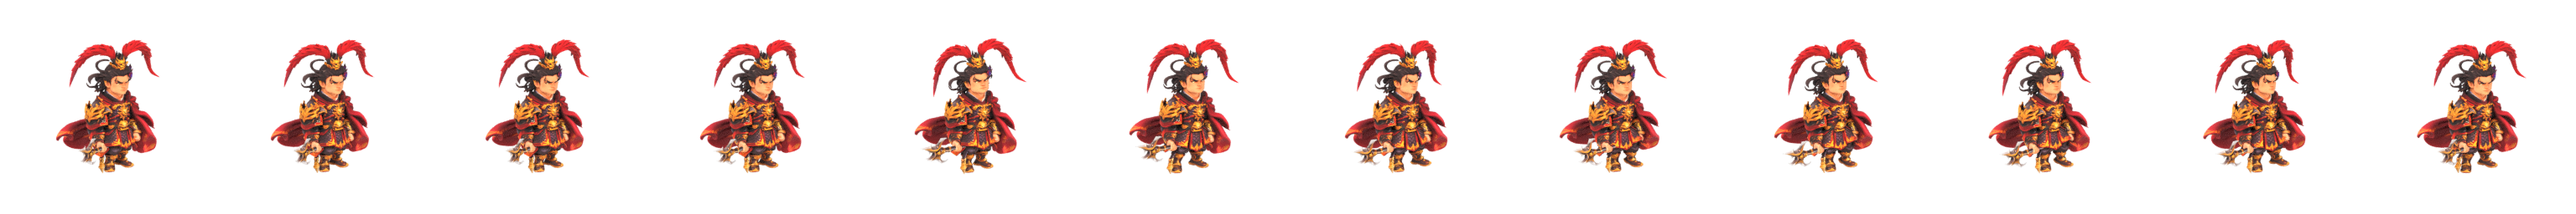
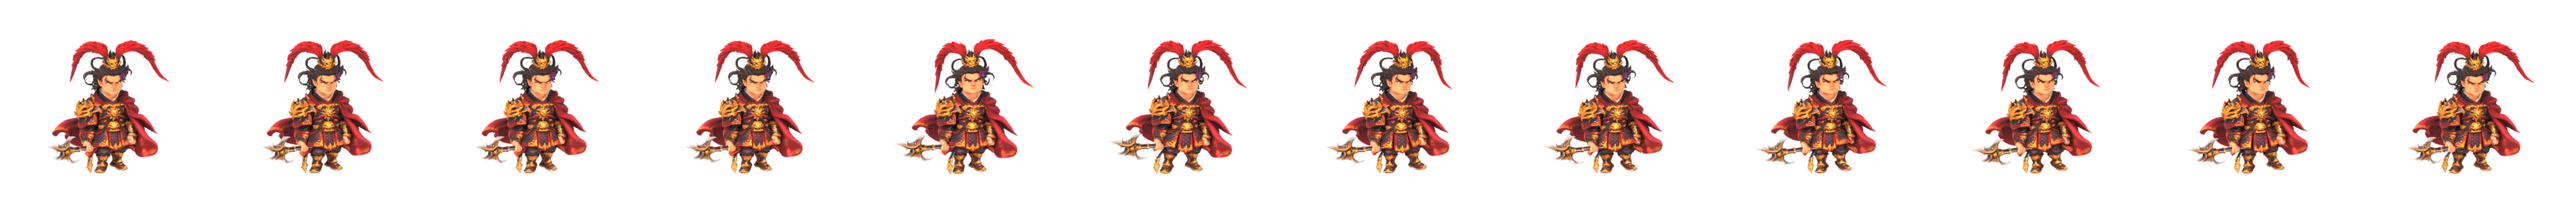
움직이는 영웅 9명과 파티원 움직임. 버전 0.19.0
Claude-Session: https://claude.ai/code/session_01JPWR7ZDp4wKUTn2x5fWbxp

diff --git a/tools/tripo_render.py b/tools/tripo_render.py
@@ -16,6 +16,13 @@ ARGS = sys.argv[sys.argv.index("--") + 1:] if "--" in sys.argv else []
 SOURCE = Path(ARGS[0]) if ARGS else Path("out/tripo")
 CELL = int(ARGS[1]) if len(ARGS) > 1 else 256
 FRAMES = 12
+VIEWS = {}
+try:
+	import json
+	for job in json.loads((Path(__file__).resolve().parent.parent / "tripo" / "jobs.json").read_text())["jobs"]:
+		VIEWS[job["name"]] = job.get("view", 90.0)
+except Exception as error:
+	print("RENDER 주문서를 못 읽음", error)
 ELEVATION = math.radians(16.0)
 ## 카메라를 돌리는 각도. 90도가 정면이고, 55도는 오른쪽을 보는 비스듬한 앞모습.
 FACING = 55.0
@@ -87,6 +94,121 @@ def make_camera(low: Vector, high: Vector):
 	return pivot
 
 
+def cloud(skinned_only: bool) -> list:
+	"""지금 장면의 모델 점들을 (가운데·바닥 기준, 키를 1로 맞춰) 돌려준다. 약 1500개만 고른다."""
+	points = []
+	depsgraph = bpy.context.evaluated_depsgraph_get()
+	for obj in bpy.context.scene.objects:
+		if obj.type != "MESH" or obj.hide_render:
+			continue
+		if skinned_only and not any(modifier.type == "ARMATURE" for modifier in obj.modifiers):
+			continue
+		evaluated = obj.evaluated_get(depsgraph)
+		mesh = evaluated.to_mesh()
+		step = max(1, len(mesh.vertices) // 1500)
+		for index in range(0, len(mesh.vertices), step):
+			points.append(evaluated.matrix_world @ mesh.vertices[index].co)
+		evaluated.to_mesh_clear()
+	if not points:
+		return []
+	low_z = min(point.z for point in points)
+	high_z = max(point.z for point in points)
+	mid_x = (min(point.x for point in points) + max(point.x for point in points)) * 0.5
+	mid_y = (min(point.y for point in points) + max(point.y for point in points)) * 0.5
+	scale = 1.0 / max(high_z - low_z, 1e-6)
+	return [Vector(((point.x - mid_x) * scale, (point.y - mid_y) * scale, (point.z - low_z) * scale)) for point in points]
+
+
+def front_angle(rigs: list, original: list) -> float:
+	"""정면에서 찍으려면 카메라를 몇 도 돌려야 하는지 돌려준다.
+	뼈대를 넣으면 모델이 저마다 다른 쪽으로 돌아가 있다. 원래 모델(앞이 90도 쪽으로 정해져 있음)의 점들과
+	뼈대 모델의 기본 자세 점들을 3도씩 돌려 가며 겹쳐 보고, 가장 잘 겹치는 각도만큼 돌아갔다고 본다."""
+	from mathutils import kdtree
+	if not original:
+		return math.radians(90.0)
+	for rig in rigs:
+		rig.data.pose_position = "REST"
+	bpy.context.view_layer.update()
+	posed = cloud(True)
+	for rig in rigs:
+		rig.data.pose_position = "POSE"
+	bpy.context.view_layer.update()
+	if not posed:
+		return math.radians(90.0)
+	tree = kdtree.KDTree(len(original))
+	for index, point in enumerate(original):
+		tree.insert(point, index)
+	tree.balance()
+	sample = posed[::3]
+	best = (1e9, 0.0)
+	for degrees in range(0, 360, 3):
+		turn = math.radians(degrees)
+		cos_t, sin_t = math.cos(turn), math.sin(turn)
+		total = 0.0
+		for point in sample:
+			# 뼈대 모델의 점을 -각도만큼 되돌려 원래 모델에 겹쳐 본다.
+			back = Vector((point.x * cos_t + point.y * sin_t, -point.x * sin_t + point.y * cos_t, point.z))
+			total += tree.find(back)[2]
+		if total < best[0]:
+			best = (total, turn)
+	print("RENDER 앞 방향: 원래 모델보다", round(math.degrees(best[1])), "도 돌아가 있음 (어긋남 %.4f)" % (best[0] / len(sample)))
+	return math.radians(90.0) + best[1]
+
+
+def _boxed(pixels, mask, side: int = 48):
+	"""그림에서 캐릭터가 차지한 상자만 잘라 side×side로 줄인다(가장 가까운 점 고르기)."""
+	import numpy as np
+	rows = np.where(mask.any(axis=1))[0]
+	cols = np.where(mask.any(axis=0))[0]
+	if len(rows) == 0:
+		return None, None
+	pick_rows = np.linspace(rows[0], rows[-1], side).astype(int)
+	pick_cols = np.linspace(cols[0], cols[-1], side).astype(int)
+	return pixels[pick_rows][:, pick_cols, :3], mask[pick_rows][:, pick_cols]
+
+
+def best_view(pivot, folder: Path) -> float:
+	"""모델을 10도씩 돌려 가며 작게 찍어 보고, 주문할 때 넣은 그림(input.png)과 가장 닮은 각도를 돌려준다.
+	트리포 모델은 앞이 어느 쪽인지 저마다 달라서, 원래 그림과 같은 방향에서 찍으려면 이렇게 찾아야 한다."""
+	import numpy as np
+	source = folder / "input.png"
+	if not source.exists():
+		return math.radians(55.0)
+	image = bpy.data.images.load(str(source))
+	width, height = image.size
+	wanted = np.array(image.pixels[:], dtype=np.float32).reshape(height, width, 4)
+	bpy.data.images.remove(image)
+	target, target_mask = _boxed(wanted, wanted[:, :, :3].min(axis=2) < 0.9)
+	if target is None:
+		return math.radians(55.0)
+	scene = bpy.context.scene
+	saved = (scene.render.resolution_x, scene.render.resolution_y, scene.cycles.samples)
+	scene.render.resolution_x = 96
+	scene.render.resolution_y = 96
+	scene.cycles.samples = 6
+	best = (1e9, 55.0)
+	for degrees in range(0, 360, 10):
+		pivot.rotation_euler = (0, 0, math.radians(degrees))
+		path = folder / "render" / "probe.png"
+		shoot(path)
+		shot = bpy.data.images.load(str(path))
+		pixels = np.array(shot.pixels[:], dtype=np.float32).reshape(96, 96, 4)
+		bpy.data.images.remove(shot)
+		view, view_mask = _boxed(pixels, pixels[:, :, 3] > 0.3)
+		if view is None:
+			continue
+		both = target_mask & view_mask
+		outline = 1.0 - both.sum() / max((target_mask | view_mask).sum(), 1)
+		color = float(np.abs(view[both] - target[both]).mean()) if both.any() else 1.0
+		score = outline + color * 2.0
+		if score < best[0]:
+			best = (score, float(degrees))
+	(folder / "render" / "probe.png").unlink(missing_ok=True)
+	scene.render.resolution_x, scene.render.resolution_y, scene.cycles.samples = saved
+	print("RENDER 원래 그림과 가장 닮은 각도:", best[1], "(점수 %.3f)" % best[0])
+	return math.radians(best[1])
+
+
 def calibrate(camera, folder: Path) -> None:
 	"""한 장을 찍어 보고, 실제로 그려진 모습이 칸 가운데에 키 62.5%로 오도록 카메라를 옮기고 맞춘다.
 	(뼈대가 든 모델은 블렌더가 알려 주는 크기가 실제와 달라서, 찍힌 그림으로 직접 잰다.)"""
@@ -138,12 +260,18 @@ def render_folder(folder: Path) -> None:
 	out = folder / "render"
 	out.mkdir(exist_ok=True)
 	model = folder / "model.glb"
+	original = []
+	view_angle = math.radians(55.0)
 	if model.exists():
 		reset()
 		bpy.ops.import_scene.gltf(filepath=str(model))
+		original = cloud(False)
 		low, high = bounds()
 		print("RENDER", folder.name, "모델 크기", [round(v, 3) for v in (high - low)])
 		pivot = make_camera(low, high)
+		# 찍는 방향: 주문서(tripo/jobs.json)의 view 각도. 90도가 트리포가 정한 정면이고, 영웅마다 원래 그림처럼
+		# 비스듬한 앞모습이 되도록 눈으로 보고 정해 둔다(자세가 비대칭인 모델은 정면이 꽤 틀어져 있다).
+		view_angle = math.radians(float(VIEWS.get(folder.name, 90.0)))
 		shots = []
 		for step in range(8):
 			pivot.rotation_euler = (0, 0, math.radians(step * 45))
@@ -168,7 +296,7 @@ def render_folder(folder: Path) -> None:
 		print("RENDER", folder.name, "동작 모델 크기", [round(v, 3) for v in (high - low)])
 		pivot = make_camera(low, high)
 		# 정면에서 35도 돌린 방향으로 놓고, 가만히 선 자세로 카메라를 맞춘다. 한 번은 대충, 한 번은 정확히.
-		pivot.rotation_euler = (0, 0, math.radians(FACING))
+		pivot.rotation_euler = (0, 0, view_angle + front_angle(rigs, original) - math.radians(90.0))
 		scene.camera.data.ortho_scale *= 1.5
 		calibrate(scene.camera, out)
 		calibrate(scene.camera, out)

diff --git a/tools/tripo_run.py b/tools/tripo_run.py
@@ -116,9 +116,10 @@ def run_job(job: dict, key: str) -> None:
 	folder.mkdir(parents=True, exist_ok=True)
 	tasks = {"model_task": job.get("model_task", ""), "rig_task": job.get("rig_task", ""), "anim_task": job.get("anim_task", "")}
 	print("== 주문:", name)
+	# 주문한 그림은 늘 함께 둔다(블렌더가 찍을 방향을 정할 때 이 그림과 견준다).
+	prepared = folder / "input.png"
+	prepare_image(ROOT / job["image"], prepared)
 	if not tasks["model_task"]:
-		prepared = folder / "input.png"
-		prepare_image(ROOT / job["image"], prepared)
 		with open(prepared, "rb") as handle:
 			if V2:
 				uploaded = call("POST", "/upload/sts", key, files={"file": ("input.png", handle, "image/png")})
@@ -143,6 +144,7 @@ def run_job(job: dict, key: str) -> None:
 	if isinstance(shot, str) and shot.startswith("http"):
 		download(shot, folder / "preview.webp")
 	if job.get("rig"):
+		check = {}
 		if not tasks["rig_task"]:
 			if V2:
 				check = call("POST", "/task", key, json={"type": "animate_prerigcheck", "original_model_task_id": tasks["model_task"]})
@@ -167,6 +169,11 @@ def run_job(job: dict, key: str) -> None:
 		for url in urls_of(rig.get("output") or {})[:1]:
 			download(url, folder / "rigged.glb")
 		animations = job.get("animations", [])
+		kind = str(check.get("rig_type", "biped")) if not job.get("rig_task") else str(job.get("rig_type", "biped"))
+		if kind != "biped":
+			# 네발짐승 등은 걷기 동작만 있다.
+			animations = ["preset:%s:walk" % kind]
+			print("  뼈대 종류:", kind, "→ 걷기만 만든다")
 		if animations:
 			if not tasks["anim_task"]:
 				if V2:

diff --git a/CLAUDE.md b/CLAUDE.md
@@ -22,7 +22,7 @@
 - 대전 화면 배치(모두의 마블·원작 영상의 구성만 참고): 판이 화면 대부분, 정보판은 판 모서리, 아이템 카드는 판 왼쪽 세로 줄, 오른쪽 아래 동그란 주사위 버튼, 오른쪽 가운데 한마디 버튼.
 - 연출 그림(2026-11-16): 연출은 도형을 조합하지 않고 그려 둔 효과 그림 `assets/fx/`를 겹쳐서 만든다. 검은 바탕 그림(빛·불·얼음·번개·마법진·충격)은 더하기 섞기(`Fx.additive()` 재질을 단 층)로 그리고, 자홍 바탕으로 그려 바탕을 지운 그림(금화·별·색종이 조각 `confetti_N`·꽃잎 `petal_N`)은 보통 섞기로 그린다. 말 아래에 깔려야 하는 바닥 효과는 밝기를 투명도로 바꾼 `<이름>_a.png`를 판 자체에 그린다(`board_view.gd`의 `_flat_sprite`). `Fx.tex(이름)`으로 불러오고, 한 번의 터짐은 `fx.stamp`(커지며 사라지는 큰 그림)와 그림 알갱이를 겹친다(`fx.burst` 종류: spark·coin·smoke·star·petal·ember·ice·impact·heal·dust·bolt). 그림이 없으면 예전 도형으로 대신한다. 자동 사진 `14x_fx_bursts`·`14y_fx_screen`이 연출 확인용이다.
 - 그림 UI 부품(2026-11-16): 버튼·창·칸 테두리·리본·막대는 Codex가 그린 그림 `assets/ui_kit/`을 조각내어(끝·귀퉁이 장식은 그대로, 가운데만 늘림) 그린다. 그리는 곳은 `scripts/ui/skin.gd`(UiSkin: `draw_bar`·`draw_frame`·`tone`), 버튼은 `gloss.gd`의 `_draw_skin`(긴 버튼 btn_색, 짧은 버튼 sq_색, 동그란 버튼 round_색, 큰 금색 버튼 btn_start), 판은 `ornate_box.gd`의 `_draw_skin`(보통 판은 card_ 얇은 금테, `grand = true`인 창은 win_ 화려한 틀), 리본은 `ribbon.gd`, 진행 막대는 `skin_bar.gd`. 틀 그림은 안쪽을 투명하게 뚫어 두고 안쪽 색은 코드가 칠한다. 넣는 도구는 `tools/import_ui.py <out/ui 폴더>`(치수는 `assets/ui_kit/meta.json`), ic_ 그림은 `assets/ui_icons`로 들어간다. 그림이 없으면 예전 도형으로 그린다. 그림 주문서는 `codex_work/job13~15.md`(참고 사진 `codex_work/ref/`).
-- 3D 모델(트리포, 2026-11-16 시험): 꼬마 모형 그림 한 장을 트리포(Tripo) API로 3D 모델 → 뼈대 → 동작(idle·walk·slash)까지 만들고, 블렌더(화면 없이, GitHub 서버)로 찍어 12칸 가로 그림 `assets/standees_anim/<id>_<동작>.png`으로 넣는다(`GameData.standee_anims`, `board_view.gd`의 `piece_anims`: 서 있으면 idle, 이동 중이면 walk). 주문서는 `tripo/jobs.json`, 도구는 `tools/tripo_run.py`(API 키는 저장소 비밀값 `TRIPO_API_KEY`, 예전 v2 주소로 연결됨)·`tools/tripo_render.py`, 작업 흐름은 `.github/workflows/tripo.yml`(`claude/tripo`로 시작하는 브랜치에서 `tripo/`가 바뀌면 돈다. 결과는 실행 결과물 `tripo-out`). 한 명에 약 85크레딧. 이미 만든 작업 번호(model_task·rig_task·anim_task)를 주문서에 적어 두면 다시 만들지 않는다.
+- 3D 모델(트리포, 2026-11-16 시험): 꼬마 모형 그림 한 장을 트리포(Tripo) API로 3D 모델 → 뼈대 → 동작(idle·walk·slash)까지 만들고, 블렌더(화면 없이, GitHub 서버)로 찍어 12칸 가로 그림 `assets/standees_anim/<id>_<동작>.png`으로 넣는다(`GameData.standee_anims`, `board_view.gd`의 `piece_anims`: 서 있으면 idle, 이동 중이면 walk). 주문서는 `tripo/jobs.json`, 도구는 `tools/tripo_run.py`(API 키는 저장소 비밀값 `TRIPO_API_KEY`, 예전 v2 주소로 연결됨)·`tools/tripo_render.py`, 작업 흐름은 `.github/workflows/tripo.yml`(`claude/tripo`로 시작하는 브랜치에서 `tripo/`가 바뀌면 돈다. 결과는 실행 결과물 `tripo-out`). 한 명에 약 85크레딧. 찍는 방향은 주문서의 `view`(도, 90이 트리포 정면)로 영웅마다 정한다. 뼈대를 못 넣는 모델(말 탄 마초, 목란)은 멈춘 그림 그대로 둔다. 파티원 두 명도 `party_anims`로 움직인다. 이미 만든 작업 번호(model_task·rig_task·anim_task)를 주문서에 적어 두면 다시 만들지 않는다.
 - 화면 방식(2026-11-16): 가로 전용·전체 화면. 웹은 처음 누를 때 전체 화면과 가로 고정을 청하고(`main.gd`의 `_setup_display`, 설정의 전체 화면 켜기·끄기), 세로로 들면 `scripts/ui/rotate_guard.gd`가 돌려 달라는 안내로 화면을 덮는다.
 - 가로 화면(2026-11-15 전환, 1280×720): 로비는 모두의 마블식(왼쪽 세로 메뉴·큰 영웅 카드와 장식 액자 `assets/ui_frames/lobby_frame.png`·배너·게임 시작), 맵은 원작 주사위의 잔영식(통짜 풍경 `assets/art/boards/<지형>.jpg`은 거울 2×2 이어 붙이기, 두꺼운 육각 칸 `assets/hex/<칸 종류>.png`, 가까운 카메라, 파티 3명이 함께 이동, 칸 위 물건 `assets/objects/`). 주사위와 전투는 창을 띄우지 않고 판 위에서 바로 보여 준다. 글·설명 칸은 단색 상자 대신 장식 판(`scripts/ui/ornate_box.gd`, `Kit.plate`/`Kit.panel`)과 리본 제목(`Kit.ribbon`)을 쓴다. 화면마다 판 색이 다르다(`main.gd`의 SCREEN_MOODS → `Kit.panel_tint`). 다른 화면의 아래 메뉴는 `Kit.screen_frame`의 왼쪽 자리(Dock)로 옮겨 가 세로 메뉴가 된다. 가로 배경은 `assets/art/wide/`(`GameData.art`가 WIDE_ART로 먼저 찾음), 입체 로고는 `assets/logos/`(`GameData.logo`). 시험 빌드는 PR 없이 `gh workflow run build.yml --ref <브랜치>`로 돌려 사진만 확인할 수 있다.
 - 입체 판과 연출(2026-11-15): 판은 `board_view.gd`에서 비스듬히 누운 블록(TILT, BLOCK_DEPTH)으로 그리고, 말은 꼬마 입체 모형 `assets/standees/<id>.png`(자홍 바탕으로 그려 `tools/import_standees.py`로 바탕 제거, `GameData.standee`)이다. 모형이 없으면 초상화 말로 돌아간다. 이어지지 않은 칸으로 갈 때(패배 복귀·워프)는 한 번에 날아간다. 칸 종류별 효과는 `_draw_tile_fx`. 화면 전체 연출(번쩍임·알갱이·속도선·빛살·튀는 글자)은 `scripts/ui/fx.gd` 한 곳에서 하고 `quiet`이면 건너뛴다. 메뉴 바탕의 떠다니는 빛은 `scripts/ui/ambience.gd`(`Kit.backdrop`이 붙임), 큰 버튼을 훑는 빛은 `scripts/ui/sweep.gd`(`Kit.shimmer`). 적 모형은 `assets/enemy_standees/<적 id>.png`(`GameData.enemy_standee`, 없으면 초상화 메달), 맵 꾸밈 모형은 `assets/props/`(`board_view.gd`의 PROP_NAMES, `tools/import_standees.py <폴더> props`로 넣음). 연출 계획은 프로젝트 문서 `claude/주사위영웅전_연출기획.md`.
